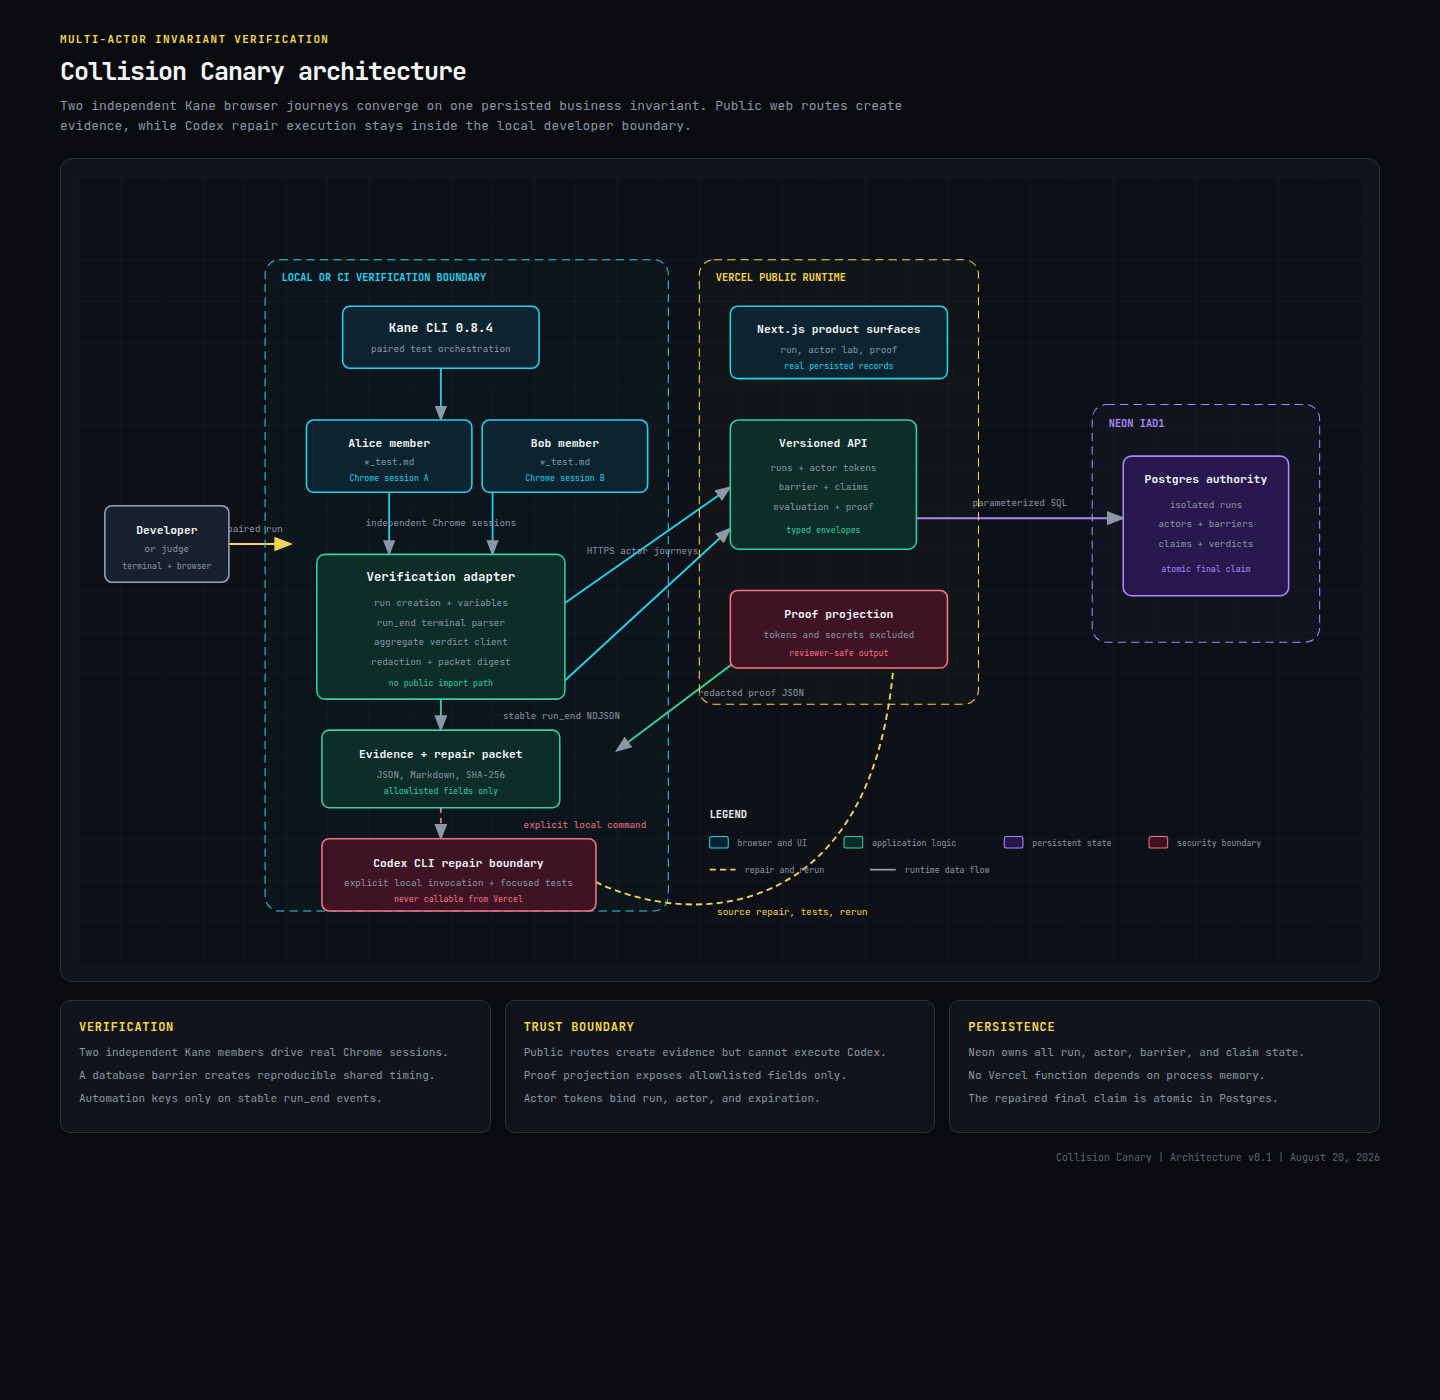
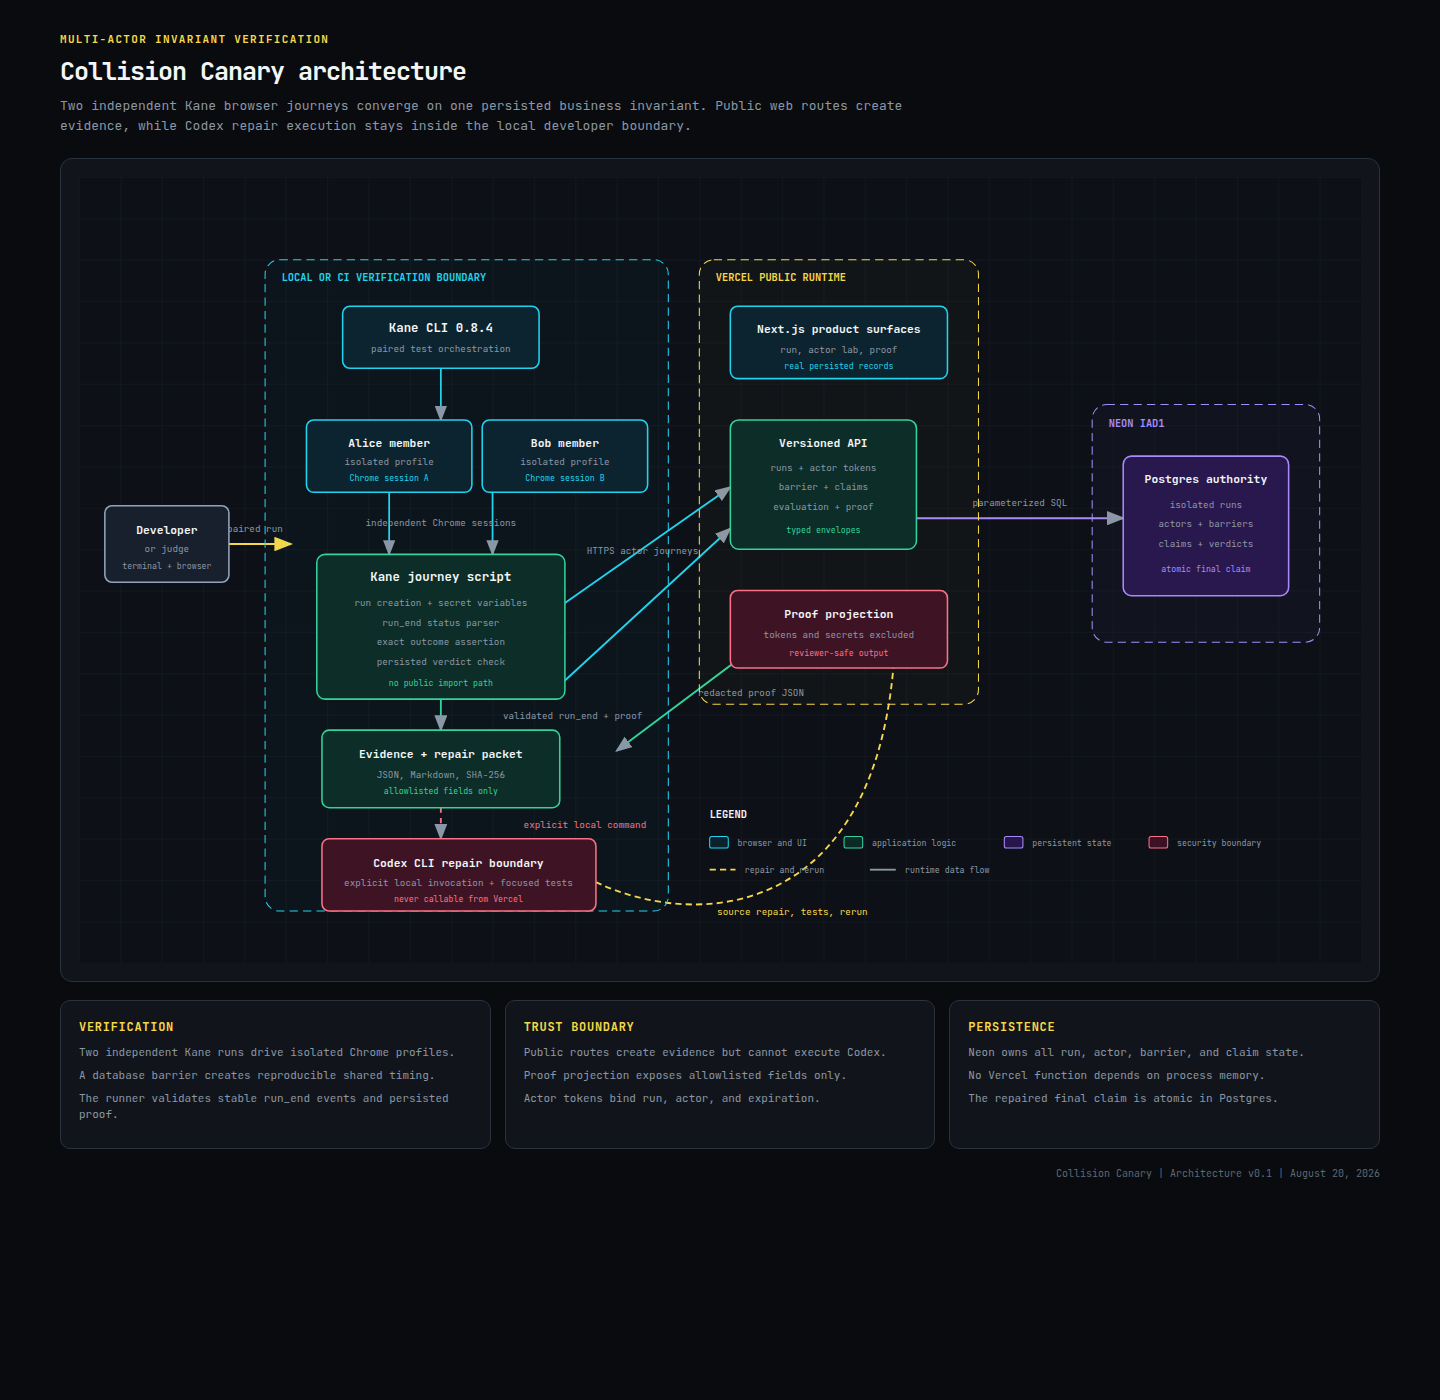
Align submission proof and CI

diff --git a/docs/collision-canary-architecture.html b/docs/collision-canary-architecture.html
@@ -40,7 +40,7 @@
     <section class="frame" aria-label="Collision Canary system architecture">
       <svg viewBox="0 0 1240 760" role="img" aria-labelledby="diagram-title diagram-desc">
         <title id="diagram-title">Collision Canary system architecture</title>
-        <desc id="diagram-desc">Kane controls two Chrome actors that call a Next.js application on Vercel. The application stores shared state in Neon Postgres. Local adapters combine Kane terminal events with the application verdict and pass a redacted repair packet to Codex.</desc>
+        <desc id="diagram-desc">Kane controls two isolated Chrome actors that call a Next.js application on Vercel. The application stores shared state in Neon Postgres. The local journey validates Kane terminal events against the persisted proof, while violated proofs produce redacted repair packets for Codex.</desc>
         <defs>
           <pattern id="grid" width="40" height="40" patternUnits="userSpaceOnUse">
             <path d="M 40 0 L 0 0 0 40" fill="none" stroke="#20262f" stroke-width="0.55"/>
@@ -76,7 +76,7 @@
         <text x="650" y="502" fill="#8c97a5" font-size="9" text-anchor="middle">redacted proof JSON</text>
 
         <path d="M 350 505 L 350 535" fill="none" stroke="#34d399" stroke-width="1.8" marker-end="url(#arrow)"/>
-        <text x="410" y="524" fill="#8c97a5" font-size="9">stable run_end NDJSON</text>
+        <text x="410" y="524" fill="#8c97a5" font-size="9">validated run_end + proof</text>
 
         <path d="M 350 610 L 350 640" fill="none" stroke="#fb7185" stroke-width="1.8" stroke-dasharray="5,5" marker-end="url(#arrow)"/>
         <text x="430" y="630" fill="#fb7185" font-size="9">explicit local command</text>
@@ -110,22 +110,22 @@
         <rect x="220" y="235" width="160" height="70" rx="7" fill="#11151b"/>
         <rect x="220" y="235" width="160" height="70" rx="7" fill="rgba(8, 51, 68, .5)" stroke="#22d3ee" stroke-width="1.5"/>
         <text x="300" y="261" fill="#f3f5f7" font-size="11" font-weight="700" text-anchor="middle">Alice member</text>
-        <text x="300" y="279" fill="#8c97a5" font-size="9" text-anchor="middle">*_test.md</text>
+        <text x="300" y="279" fill="#8c97a5" font-size="9" text-anchor="middle">isolated profile</text>
         <text x="300" y="294" fill="#22d3ee" font-size="8" text-anchor="middle">Chrome session A</text>
 
         <rect x="390" y="235" width="160" height="70" rx="7" fill="#11151b"/>
         <rect x="390" y="235" width="160" height="70" rx="7" fill="rgba(8, 51, 68, .5)" stroke="#22d3ee" stroke-width="1.5"/>
         <text x="470" y="261" fill="#f3f5f7" font-size="11" font-weight="700" text-anchor="middle">Bob member</text>
-        <text x="470" y="279" fill="#8c97a5" font-size="9" text-anchor="middle">*_test.md</text>
+        <text x="470" y="279" fill="#8c97a5" font-size="9" text-anchor="middle">isolated profile</text>
         <text x="470" y="294" fill="#22d3ee" font-size="8" text-anchor="middle">Chrome session B</text>
 
         <rect x="230" y="365" width="240" height="140" rx="8" fill="#11151b"/>
         <rect x="230" y="365" width="240" height="140" rx="8" fill="rgba(6, 78, 59, .42)" stroke="#34d399" stroke-width="1.5"/>
-        <text x="350" y="391" fill="#f3f5f7" font-size="12" font-weight="700" text-anchor="middle">Verification adapter</text>
-        <text x="350" y="415" fill="#8c97a5" font-size="9" text-anchor="middle">run creation + variables</text>
-        <text x="350" y="434" fill="#8c97a5" font-size="9" text-anchor="middle">run_end terminal parser</text>
-        <text x="350" y="453" fill="#8c97a5" font-size="9" text-anchor="middle">aggregate verdict client</text>
-        <text x="350" y="472" fill="#8c97a5" font-size="9" text-anchor="middle">redaction + packet digest</text>
+        <text x="350" y="391" fill="#f3f5f7" font-size="12" font-weight="700" text-anchor="middle">Kane journey script</text>
+        <text x="350" y="415" fill="#8c97a5" font-size="9" text-anchor="middle">run creation + secret variables</text>
+        <text x="350" y="434" fill="#8c97a5" font-size="9" text-anchor="middle">run_end status parser</text>
+        <text x="350" y="453" fill="#8c97a5" font-size="9" text-anchor="middle">exact outcome assertion</text>
+        <text x="350" y="472" fill="#8c97a5" font-size="9" text-anchor="middle">persisted verdict check</text>
         <text x="350" y="492" fill="#34d399" font-size="8" text-anchor="middle">no public import path</text>
 
         <rect x="235" y="535" width="230" height="75" rx="7" fill="#11151b"/>
@@ -193,9 +193,9 @@
       <article class="card">
         <h2>VERIFICATION</h2>
         <ul>
-          <li>Two independent Kane members drive real Chrome sessions.</li>
+          <li>Two independent Kane runs drive isolated Chrome profiles.</li>
           <li>A database barrier creates reproducible shared timing.</li>
-          <li>Automation keys only on stable run_end events.</li>
+          <li>The runner validates stable run_end events and persisted proof.</li>
         </ul>
       </article>
       <article class="card">

diff --git a/README.md b/README.md
@@ -2,7 +2,7 @@
 
 **Catch the bug only two users can make.**
 
-Collision Canary drives two real browser actors at the exact same moment and proves whether your app keeps a simple promise: only one person can claim the last seat. Single-user tests never see this class of bug. It only shows up when two people act on one shared record in the same instant, and one row says yes to both.
+Collision Canary drives two real browser actors at the exact same moment and proves whether its bundled last-seat reference app keeps a simple promise: only one person can claim the final seat. Single-user tests never see this class of bug. It only shows up when two people act on one shared record in the same instant, and one row says yes to both.
 
 **Live app: https://collision-canary.vercel.app**
 
@@ -72,7 +72,7 @@ Requirements: Node.js 22+, pnpm 11+, and Neon (PostgreSQL) credentials.
 pnpm install
 vercel env pull .env.local --environment development
 pnpm db:migrate
-pnpm dev -- --port 3001
+pnpm exec next dev -p 3001
 ```
 
 Verify the full flow over HTTP:
@@ -95,7 +95,7 @@ Build a packet from a violated run, apply a local Codex repair, then link the cy
 
 ```bash
 pnpm build:repair-packet -- --run <violated-run-id> --out .collision-canary/runs/<run-id>
-pnpm repair:codex -- --packet .collision-canary/runs/<run-id>/repair-packet.json
+pnpm repair:codex -- --packet .collision-canary/runs/<run-id>/repair-packet.json --apply
 pnpm link:repair-cycle -- --failed-run <violated-run-id> --verified-run <verified-run-id> --packet .collision-canary/runs/<run-id>/repair-packet.json
 ```
 
@@ -111,7 +111,7 @@ The Codex adapter defaults to dry-run. `--apply` is an explicit local operation 
 
 ## Limitations
 
-A proof describes one observed run. It does not claim exhaustive verification of every possible schedule. The local failure fixture is disabled in production, and the production claim path stays atomic even if the fixture variable is present.
+A proof describes one observed run. It does not claim exhaustive verification of every possible schedule. This release ships one last-seat reference scenario rather than an arbitrary target-app adapter. The local failure fixture is disabled in production, and the production claim path stays atomic even if the fixture variable is present.
 
 Read the system decisions in [docs/ARCHITECTURE.md](docs/ARCHITECTURE.md) and the visual system in [docs/DESIGN.md](docs/DESIGN.md).
 

diff --git a/docs/ARCHITECTURE.md b/docs/ARCHITECTURE.md
@@ -183,6 +183,8 @@ See [.env.example](../.env.example) for the local template.
 
 ## Scope limits
 
-The current implementation covers one versioned last-seat scenario and its
-backend proof path. Browser UI work is a separate client of these routes. A
-proof is evidence for the captured run, not a universal concurrency theorem.
+The current implementation covers one versioned last-seat reference scenario,
+its browser actors, and its proof and repair-cycle surfaces. The same barrier,
+claim, and invariant pattern can be adapted to other shared-state workflows,
+but this release does not accept an arbitrary external application URL. A proof
+is evidence for the captured run, not a universal concurrency theorem.

diff --git a/docs/DESIGN.md b/docs/DESIGN.md
@@ -251,7 +251,7 @@ Sections in order: nav pill, hero, runs on strip, problem, how it works, feature
 - Optional human band: a real photo of engineers at laptops. Search query: software engineers collaborating laptop candid.
 - Optional problem story: a real last seat moment. Search query: airplane window seat, or concert tickets phone.
 - Photo treatment: radius 16px, soft shadow, slight warm tint.
-- Photos are sourced from Unsplash with a valid API key and bound at build with correct attribution. No placeholder images ship. Key location is pending from the owner.
+- Photos are sourced from Unsplash and bound with correct attribution. No API key or placeholder asset ships to the browser.
 
 ## Build rules
 
